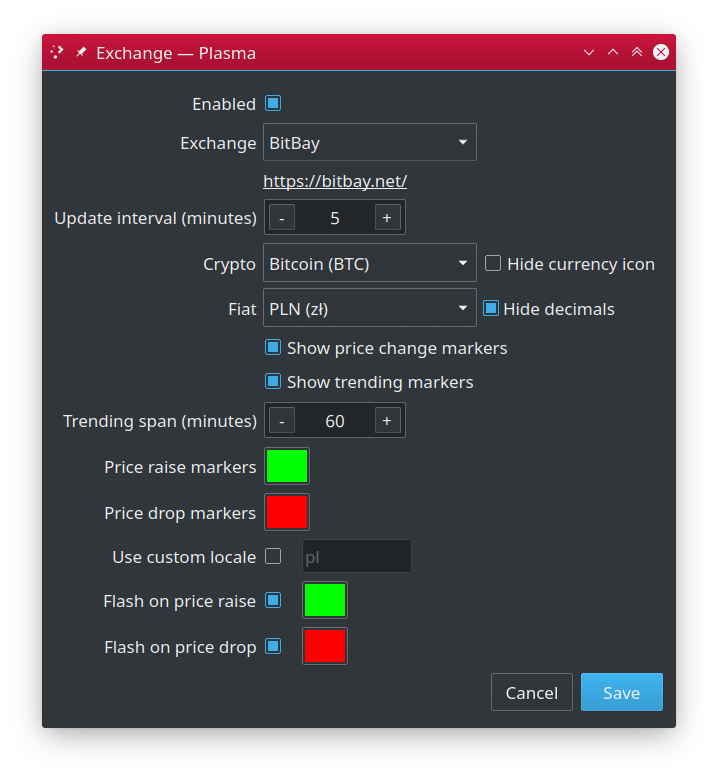
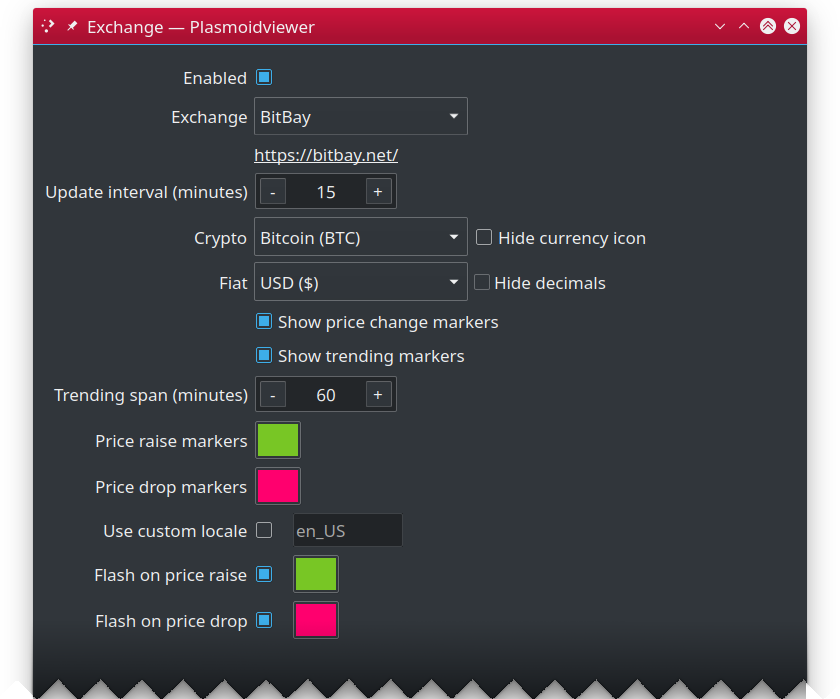
Now inits exchange edit dialog when creating new one

Changed region(s): [[0.0306, 0.0, 0.9805, 1.0], [0.7047, 0.8712, 0.766, 0.9013], [0.5209, 0.1502, 0.5515, 0.1803]]

diff --git a/src/contents/ui/config/ExchangeConfig.qml b/src/contents/ui/config/ExchangeConfig.qml
@@ -25,6 +25,32 @@ ColumnLayout {
 
     // ------------------------------------------------------------------------------------------------------------------------
 
+    function init() {
+        fromJson({
+            'enabled': true,
+
+            'exchange': Crypto.getExchageIds()[0],
+            'crypto': Crypto.BTC,   // FIXME we should fetch first crypto supported by exchange!
+            'hideCryptoLogo': false,
+            'fiat': Crypto.USD,   // FIXME we should fetch first fiat supported by exchange!
+            'refreshRate': 15,
+            'hidePriceDecimals': false,
+            'useCustomLocale': false,
+            'customLocaleName': '',
+
+            'showPriceChangeMarker': true,
+            'showTrendingMarker': true,
+            'trendingTimeSpan': 60,
+
+            'flashOnPriceRaise': true,
+            'flashOnPriceRaiseColor': '#78c625',
+            'flashOnPriceDrop': true,
+            'flashOnPriceDropColor': '#ff006e',
+            'markerColorPriceRaise': '#78c625',
+            'markerColorPriceDrop': '#ff006e',
+        })
+    }
+
     function fromJson(json) {
         exchangeEnabled.checked = json.enabled
 

diff --git a/src/contents/js/crypto.js b/src/contents/js/crypto.js
@@ -14,13 +14,20 @@ const BTC='BTC'
 const ETH='ETH'
 const LTC='LTC'
 
+const USD='USD'
+const PLN='PLN'
+const GBP='GBP'
+const EUR='EUR'
+const JPY='JPY'
+const CZK='CZK'
+
 var currencySymbols = {
-	'EUR': '€',					// Euro
-	'GBP': '£',					// British Pound Sterling
-	'PLN': 'zł',				// Polish Zloty
-	'USD': '$',					// US Dollar
-	'JPY': '¥',					// Japanese Yen
-	'CZK': 'Kč',				// Czech Krown
+	EUR: '€',					// Euro
+	GBP: '£',					// British Pound Sterling
+	PLN: 'zł',				// Polish Zloty
+	USD: '$',					// US Dollar
+	JPY: '¥',					// Japanese Yen
+	CZK: 'Kč',				// Czech Krown
 }
 function getCurrencyName(code) {
 	return code + ' (' + currencySymbols[code] + ')'
@@ -200,6 +207,10 @@ var exchanges = {
 
 function exchangeExists(exchange) {
 	return exchange in exchanges
+}
+
+function getExchageIds() {
+	return Object.keys(exchanges)
 }
 
 function getExchange(exchange) {

diff --git a/src/contents/ui/Exchange.qml b/src/contents/ui/Exchange.qml
@@ -38,12 +38,12 @@ GridLayout {
     property int trendingTimeSpan: 60          // minutes
 
     property bool flashOnPriceRaise: true
-    property string flashOnPriceRaiseColor: '#00ff00'
+    property string flashOnPriceRaiseColor: '#78c625'
     property bool flashOnPriceDrop: true
-    property string flashOnPriceDropColor: '#ff0000'
+    property string flashOnPriceDropColor: '#ff006e'
 
-    property string markerColorPriceRaise: '#00ff00'
-    property string markerColorPriceDrop: '#ff0000'
+    property string markerColorPriceRaise: '#78c625'
+    property string markerColorPriceDrop: '#ff006e'
 
     // --------------------------------------------------------------------------------------------
 

diff --git a/src/contents/ui/config/Exchanges.qml b/src/contents/ui/config/Exchanges.qml
@@ -183,6 +183,7 @@ Item {
 	}
 
 	function addExchange() {
+		exchange.init()
 		selectedRow = -1
 		exchangeEditDialog.visible = true
 	}
